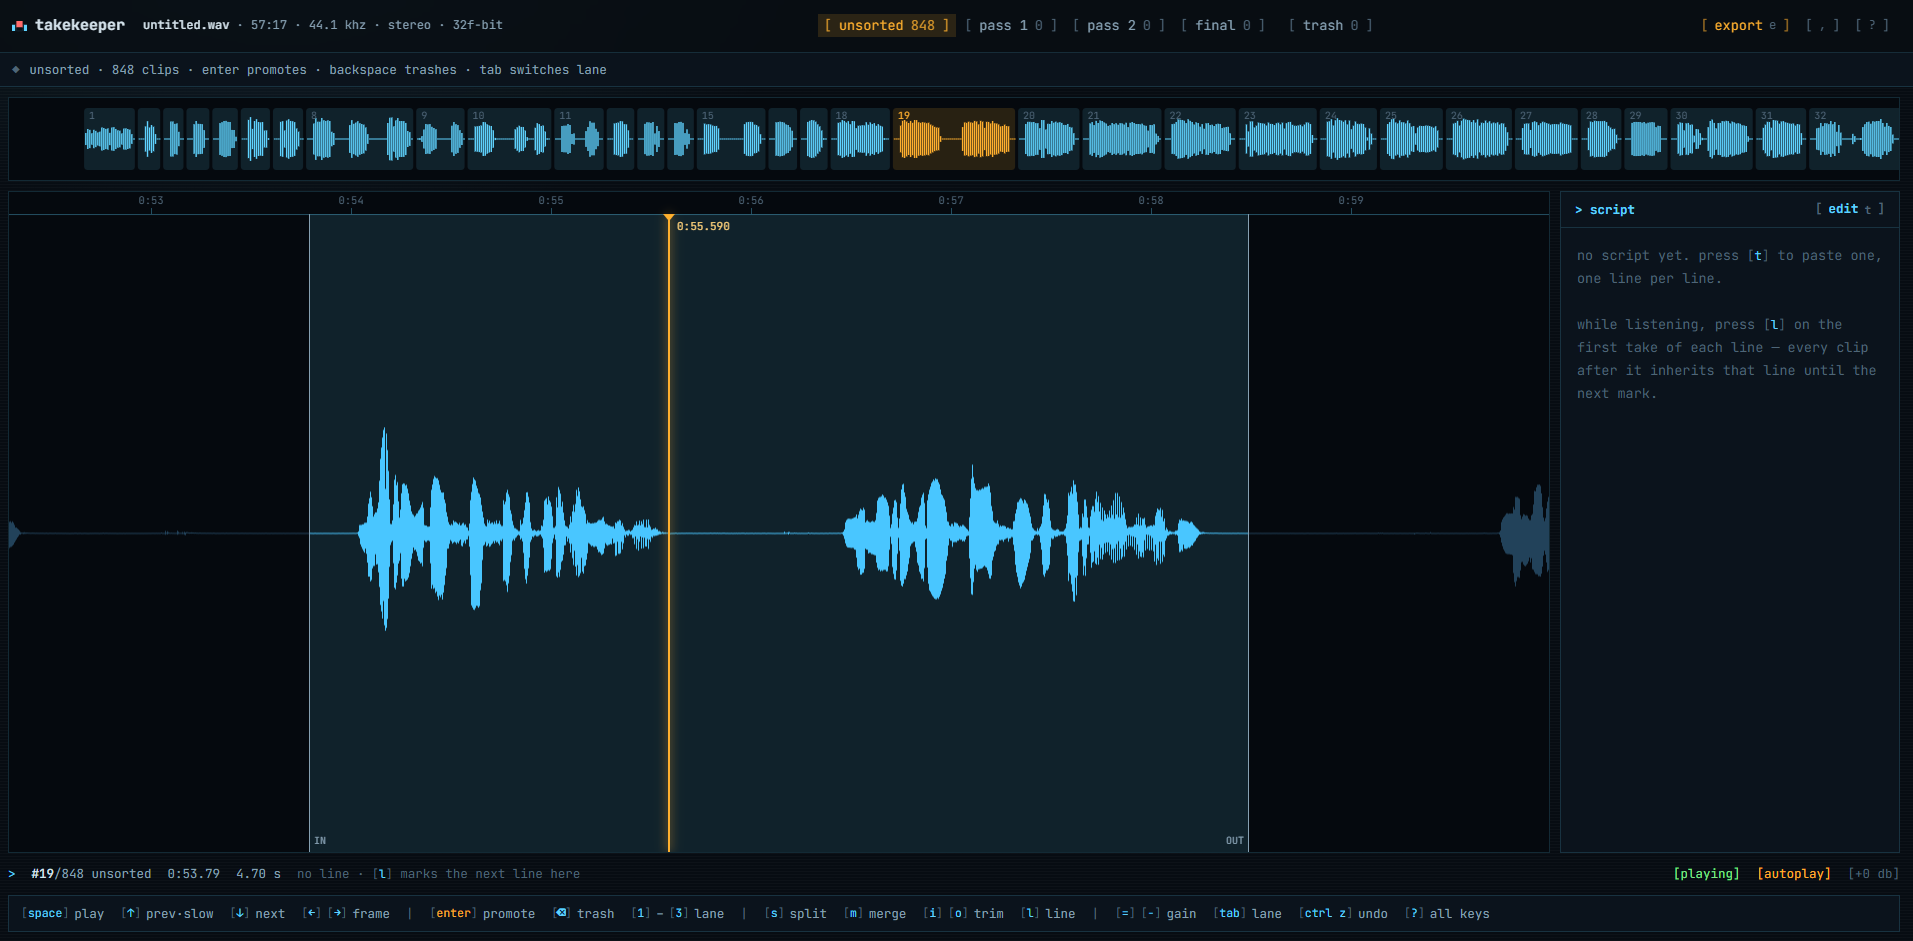
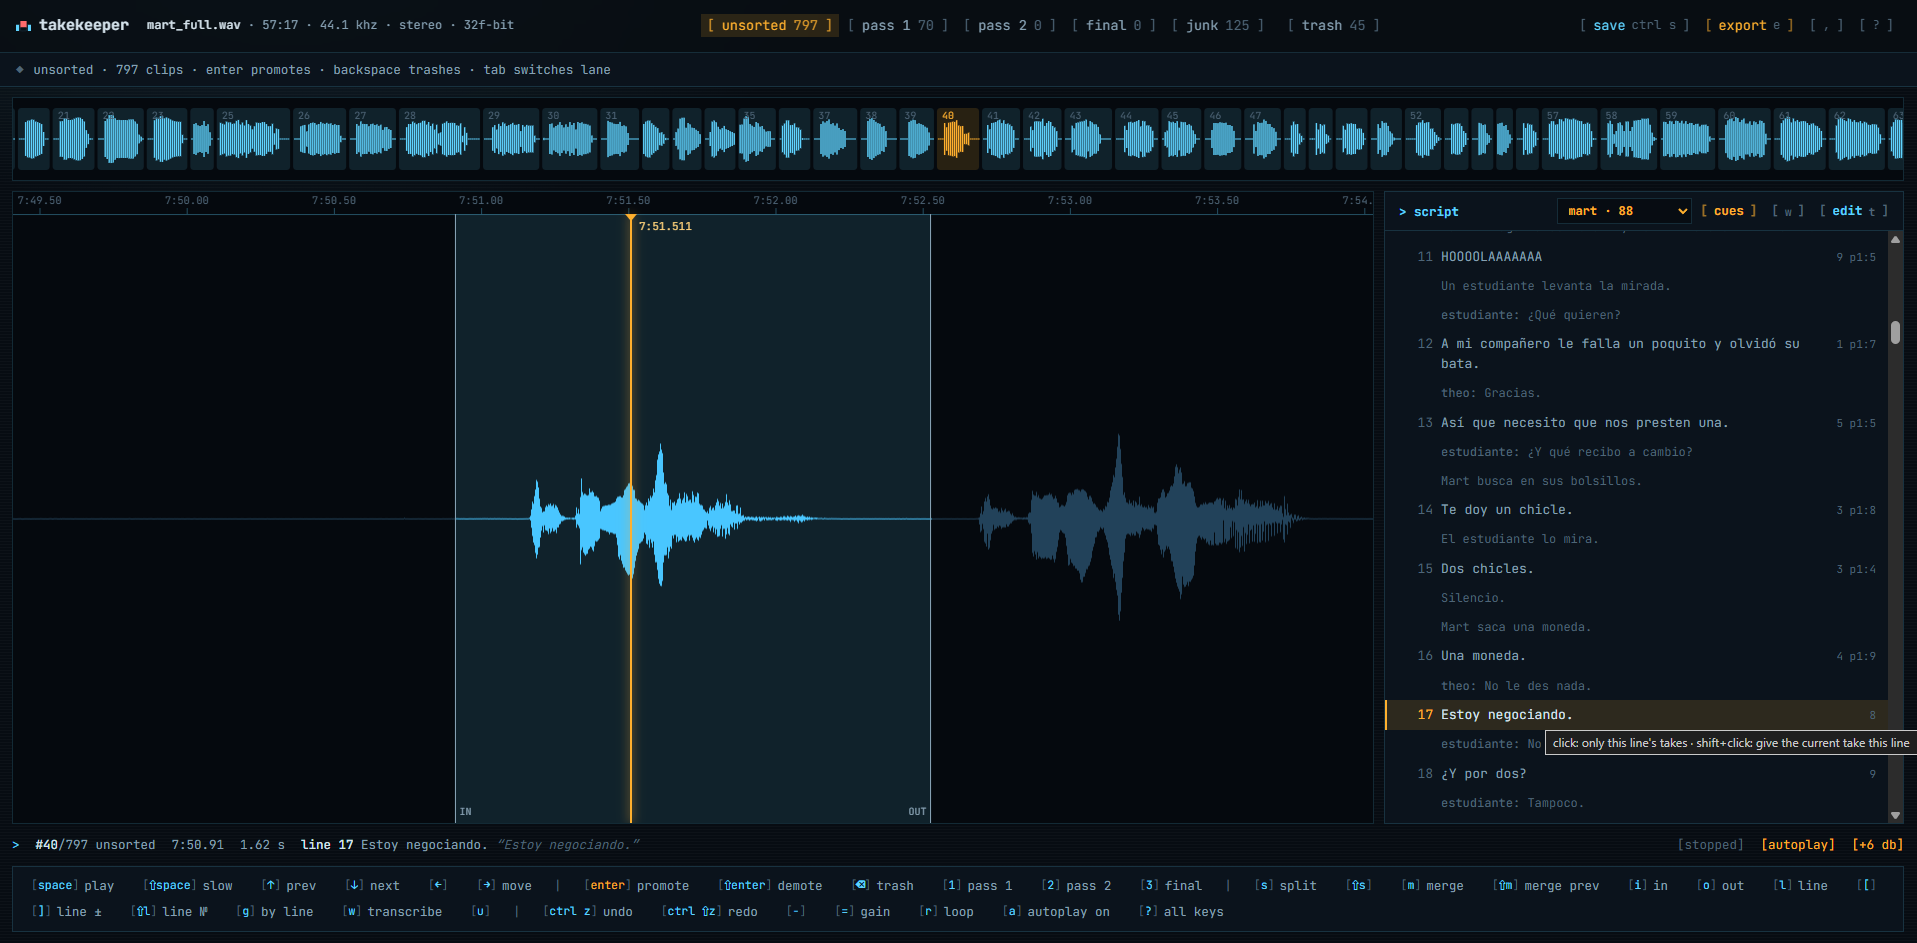
Landing: new mid-sort screenshot with transcription and lanes in use

diff --git a/index.html b/index.html
@@ -152,14 +152,14 @@
         <figure class="shot">
           <img
             src="/screenshot.png"
-            alt="takekeeper editor: a strip of 848 detected takes along the top, the current take's waveform with the amber playhead, the script panel with your lines, and a toolbar with every key"
-            width="1913"
-            height="941"
+            alt="takekeeper editor mid-sort: lane tabs with counts (unsorted 797, pass 1 70, junk 125, trash 45), a strip of takes with the current one in amber, its waveform with in, out and the playhead, the script panel with the character picker, per-line take counts and the current line highlighted, the transcript in the info line, and a toolbar with every key"
+            width="1917"
+            height="943"
             loading="lazy"
           />
           <figcaption>
-            a 57-minute session, 848 takes, a few seconds after dropping the file. the amber clip is the one under the playhead; the lanes
-            along the top are the passes.
+            a 57-minute session mid-sort: transcribed, matched to the script, 125 non-takes already in junk, 70 keepers in pass 1. the amber
+            take is the one under the playhead; the script panel counts takes per line and per pass.
           </figcaption>
         </figure>
       </section>

diff --git a/docs/takekeeper-brief.md b/docs/takekeeper-brief.md
@@ -177,7 +177,7 @@ Not built, and honest about it: recording inside the browser (your interface and
 
 ## 11. Suggested screenshot
 
-One editor screenshot with a real session loaded and transcribed, mid-sort, is enough: the lane tabs with counts along the top (including Junk and Trash), the overview strip with the current take in amber, the waveform with IN/OUT and the amber playhead, the script panel with the character picker, per-line counts and the highlighted current line, the info line showing `line 43 · Espera, déjame terminar.` with its transcript, and the toolbar. That single frame contains every concept in this document.
+One editor screenshot with a real session loaded and transcribed, mid-sort, is enough (the one on the landing page, `public/screenshot.png`, is exactly that: 797 unsorted, 70 in pass 1, 125 in junk, take #40 on line 17 "Estoy negociando."): the lane tabs with counts along the top (including Junk and Trash), the overview strip with the current take in amber, the waveform with IN/OUT and the amber playhead, the script panel with the character picker, per-line counts and the highlighted current line, the info line showing `line 43 · Espera, déjame terminar.` with its transcript, and the toolbar. That single frame contains every concept in this document.
 
 ---
 
